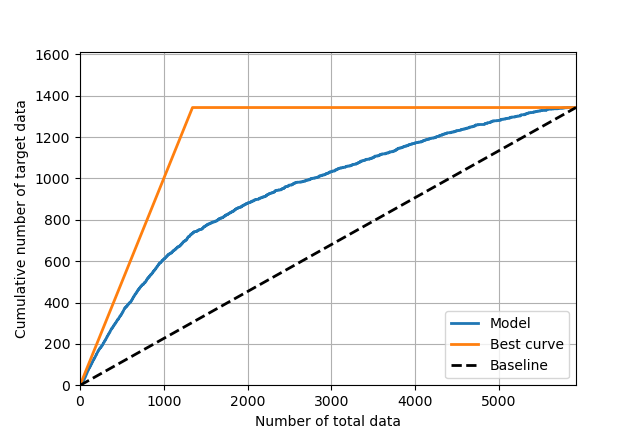
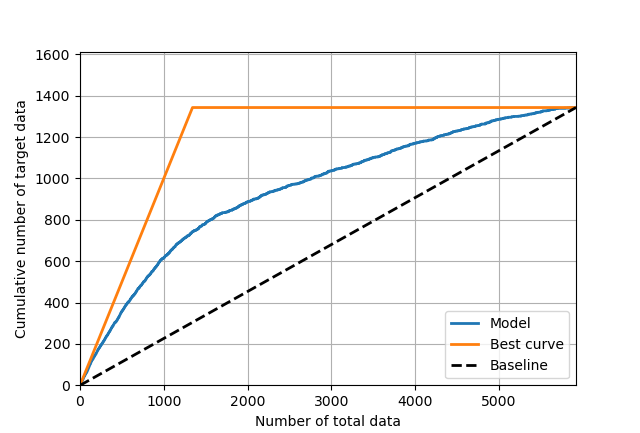
Improve SSM analysis

diff --git a/NeuralNetworks/lib/functions.py b/NeuralNetworks/lib/functions.py
@@ -64,7 +64,7 @@ def LogReg(X_train, y_train, X_test, y_test, epochs, sklrn=False):
     print(f"\tMy SGD  | {train_acc:2.2f}    | {test_acc:2.2}", end="")
     print(f"       | {train_area:2.2}     | {test_area:2.2}")
 
-    sortin_smoothing_method(clf.predict(X_test, binary=False), y_test)
+    sorting_smoothing_method(clf.predict(X_test, binary=False), y_test)
 
     # Sklearn Log Reg
     if sklrn:
@@ -97,7 +97,7 @@ def LogReg(X_train, y_train, X_test, y_test, epochs, sklrn=False):
 	Sklearn | 0.30    | 0.24       | 0.35     | 0.40
     """
 
-def sortin_smoothing_method(y_pred, y_test, n=50):
+def sorting_smoothing_method(y_pred, y_test, n=50):
     # order data from min to max
     ind = np.argsort(y_pred)
     y_pred = y_pred[ind]
@@ -119,18 +119,21 @@ def sortin_smoothing_method(y_pred, y_test, n=50):
     line = LinReg.predict(X)
     intercept, slope = LinReg.beta
     mse, r2 = LinReg.k_fold_cross_validation(5, "ols")
+    print(f"\tR2 score = {r2:1.3f}")
 
     # plot
     plt.plot(pred_prob, line, 'k-', label=f"y = {slope:1.2}x + {intercept:1.4}\n$R^2$ = {r2:1.3}")
-    plt.plot(pred_prob, est_prob, 'k.', alpha=.3)
+    plt.plot(pred_prob, est_prob, 'k.', alpha=.1)
     plt.grid()
     plt.xlim(0, 1)
     plt.ylim(0, 1)
+    plt.xlabel("Predicted Probability")
+    plt.ylabel("Estimated Actual Probability")
     plt.legend()
     plt.show()
 
 
-def NN_classification(X_train, y_train, X_test, y_test):
+def NN_classification_grid_search(X_train, y_train, X_test, y_test):
     """
     Perform classification by using a Neural Network. The layers and
     activation function can be specified under.
@@ -172,8 +175,8 @@ def NN_classification(X_train, y_train, X_test, y_test):
                 X_train, y_train, validation_data=(X_test, y_test),
                 epochs=epochs, batch_size=batch_size, eta=eta, reg=reg
             )
-            y_pred = NN.predict(X_test, binary=False)
-            sortin_smoothing_method(y_pred, y_test)
+            # y_pred = NN.predict(X_test, binary=False)
+            # sortin_smoothing_method(y_pred, y_test)
             area_ratio_tr = roc_curve(y_train, NN.predict(X_train, binary=False))
             area_ratio_te = roc_curve(y_test, NN.predict(X_test, binary=False))
             area_ratios_tr[i, j] = area_ratio_tr
@@ -201,34 +204,72 @@ def NN_classification(X_train, y_train, X_test, y_test):
     plot_heat_map(area_ratios_te, "Area ratios from test set")
 
     eta_i, reg_i = np.unravel_index(
+        np.argmax(area_ratios_tr, axis=None), area_ratios_te.shape
+    )
+    print("\tTraining data:")
+    print(f"\t\tBest area ratio = {area_ratios_tr[eta_i, reg_i]:2.2}")
+    print(f"\t\teta = {learning_rates[eta_i]:g}, reg = {regular_params[reg_i]:g}")
+    eta_i, reg_i = np.unravel_index(
         np.argmax(area_ratios_te, axis=None), area_ratios_te.shape
     )
-    eta_te = learning_rates[eta_i]
-    reg_te = regular_params[reg_i]
-    area_ratio_te = area_ratios_te[eta_i, reg_i]
-    area_ratio_tr = area_ratios_tr[eta_i, reg_i]
+    print("\tTest data:")
+    print(f"\t\tBest area ratio = {area_ratios_tr[eta_i, reg_i]:2.2}")
+    print(f"\t\teta = {learning_rates[eta_i]:g}, reg = {regular_params[reg_i]:g}")
 
-    # Lift chart on test set with best eta and reg_param:
-    print("\n\tEvaluating error rates and creating ROC curve")
+
+def NN_classification(X_train, y_train, X_test, y_test):
+    """
+    Perform classification by using a Neural Network. The layers and
+    activation function can be specified under.
+
+    Parameters
+    ----------
+    X_train : array, shape(N, p)
+        Training data.
+
+    y_train : array, shape(N, )
+        Training data.
+
+    X_test : array, shape(N, p)
+        Testing data.
+
+    y_test : array, shape(N, )
+        Testing data.
+
+    Returns
+    -------
+    None : prints/plots the results directly.
+    """
+    print("Neural Network\n")
+    layers = [41, 100, 75, 50, 34, 1]
+    cost = CrossEntropy()
+    act_fns = ["sigmoid", "sigmoid", "sigmoid", "sigmoid", "sigmoid"]
+    NN = NeuralNetwork(layers=layers, cost=cost, act_fns=act_fns)
+
+    epochs = 10
+    batch_size = 100
+    eta = 0.1
+    reg = 1e-5
     NN.SGD(
         X_train, y_train, validation_data=(X_test, y_test),
-        epochs=epochs, batch_size=batch_size, eta=eta_te, reg=reg_te
+        epochs=epochs, batch_size=batch_size, eta=eta, reg=reg
     )
     # Error rates
     y_pred = NN.predict(X_train, binary=True)
     err_tr = 1 - np.sum(y_pred == y_train) / len(y_train)
     y_pred = NN.predict(X_test, binary=True)
     err_te = 1 - np.sum(y_pred == y_test) / len(y_test)
-    sortin_smoothing_method(y_pred, y_test)
 
-    # ROC curve
+    y_pred = NN.predict(X_train, binary=False)
+    area_ratio_tr = roc_curve(y_train, y_pred, show=False)
     y_pred = NN.predict(X_test, binary=False)
-    roc_curve(y_test, y_pred, show=True)
+    area_ratio_te = roc_curve(y_test, y_pred, show=True)
+    sorting_smoothing_method(y_pred, y_test)
 
     print("\tTraining data:")
     print(f"\t\tBest err rate = {err_tr:2.2}, area ratio = {area_ratio_tr:2.2}")
     print("\tTest data:")
-    print(f"\t\tBest err rate = {err_te:2.2}, area ratio = {area_ratio_tr:2.2}")
+    print(f"\t\tBest err rate = {err_te:2.2}, area ratio = {area_ratio_te:2.2}")
     """
     Evaluating error rates and creating ROC curve
 	Training Neural Network with 10 epochs
@@ -528,7 +569,7 @@ def animate_franke(X_train, y_train, X_test, y_test, epochs=10, activation="sigm
 
     # NN setup
     NN = NeuralNetwork(
-        layers=[2, 100, 100, 1], cost=MSE(),
+        layers=[2, 100, 60, 1], cost=MSE(),
         act_fns=[activation, activation, "linear"]
     )
     NN.SGD(

diff --git a/NeuralNetworks/main.py b/NeuralNetworks/main.py
@@ -15,16 +15,18 @@ def main():
     y_train = train_data["y"]
     X_test = test_data["X"]
     y_test = test_data["y"]
-    LogReg(X_train, y_train, X_test, y_test, epochs=100)
+    # LogReg(X_train, y_train, X_test, y_test, epochs=1000)
     # NN_classification(X_train, y_train, X_test, y_test)
+    NN_classification_grid_search(X_train, y_train, X_test, y_test) # Best: eta=0.1 reg=1e-5
 
 
     # ----- Regression, Franke Function -----
 
-    X_train, y_train = generate_franke_data(N=30000, noise=0)
-    X_test, y_test = generate_franke_data(N=10000, noise=0)
+    X_train, y_train = generate_franke_data(N=30000, noise=.3)
+    X_test, y_test = generate_franke_data(N=10000, noise=.3)
     # LinReg(X_train, y_train, X_test, y_test)
     # NN_regression(X_train, y_train, X_test, y_test)
+    # Animations
     # animate_franke(X_train, y_train, X_test, y_test, epochs=100, activation="sigmoid")
     # animate_franke(X_train, y_train, X_test, y_test, epochs=100, activation="tanh")
     # animate_franke(X_train, y_train, X_test, y_test, epochs=100, activation="relu")
